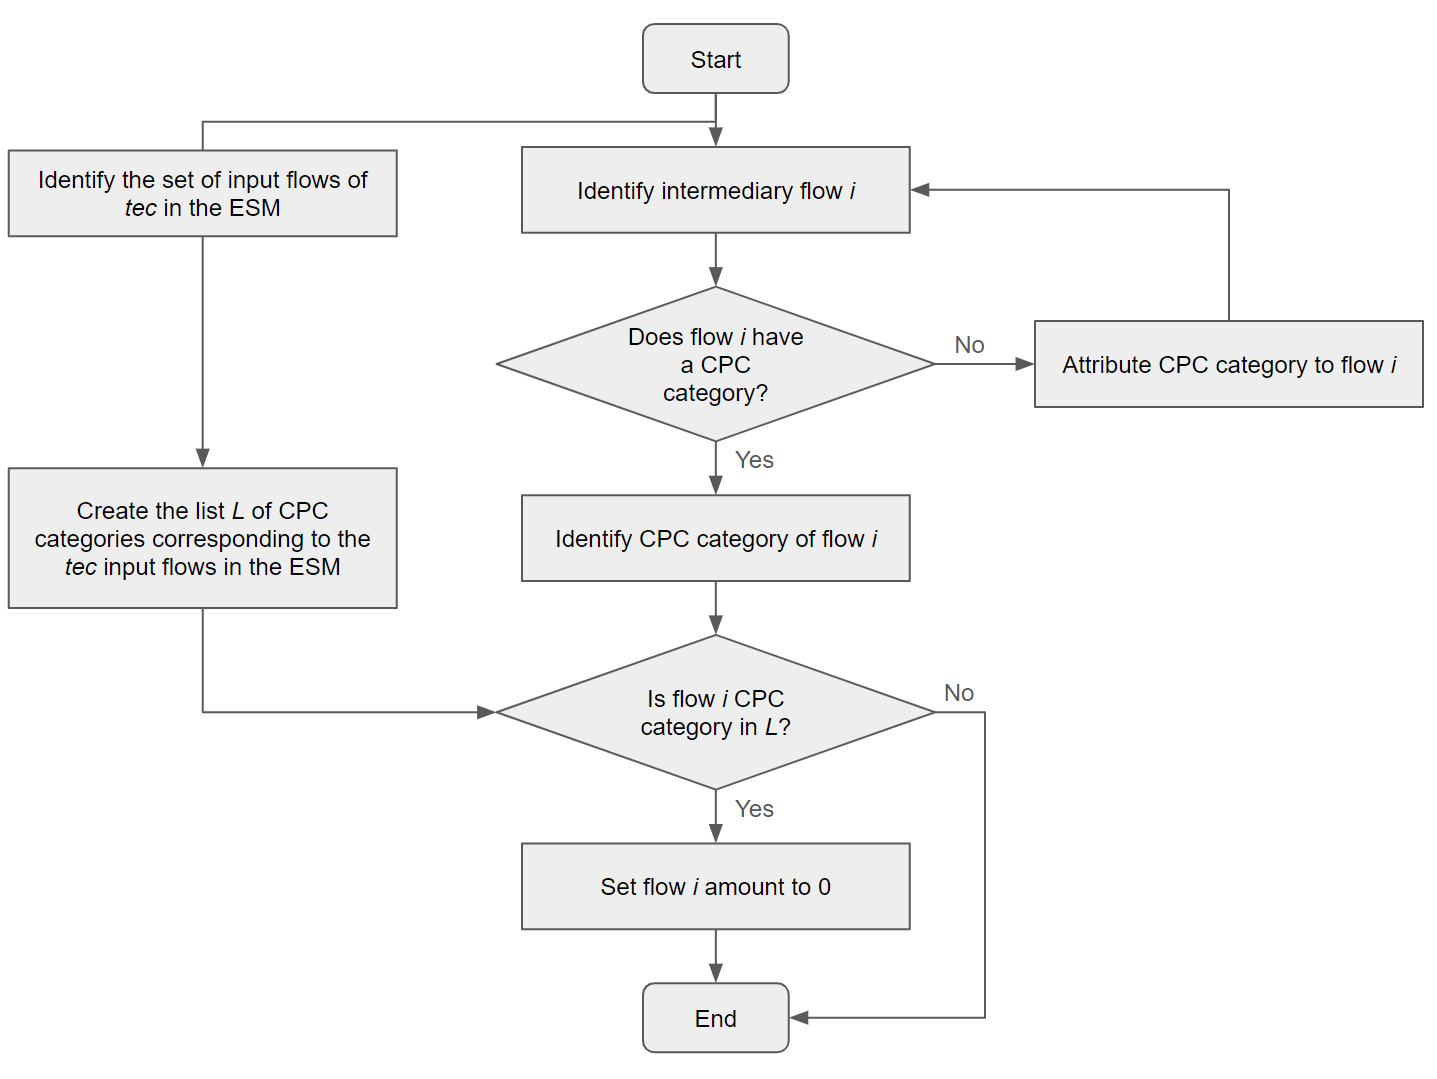
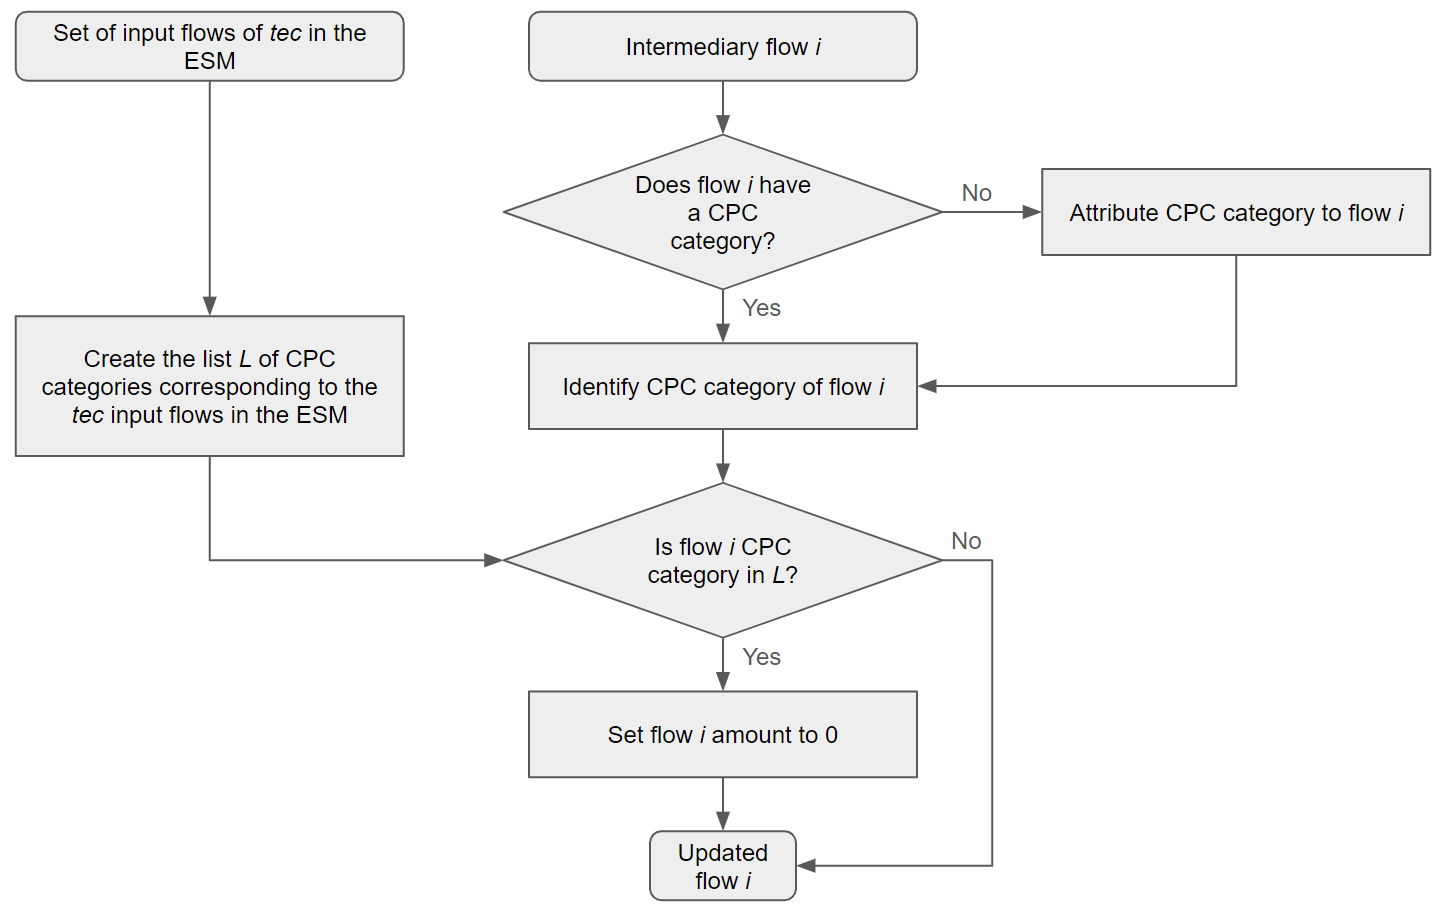
minor changes in figures and text

diff --git a/docs/content/methods.md b/docs/content/methods.md
@@ -6,19 +6,19 @@ Modellers should provide a mapping between the technologies and resources in the
 
 ![mapping between esm technologies and lci datasets](../pics/mapping.png "mapping")
 
-## Regionalization
+## Regionalization and spatialization
 
-LCI datasets can be regionalized to match the location of the ESM. For instance, if a LCI dataset does not exist for the region of interest, a new LCI dataset can be copied and adapted from an existing one (by changing the list of providers) as a proxy. If you are using a regionalized LCI database (i.e., with region-specific elementary flows), biosphere flows will be regionalized following the same procedure.
-
-## Harmonization
-
-Harmonization is the process of ensuring that the LCI datasets are consistent with the ESM. It mainly consists of unit conversion and assumptions alignement. For instance, lifetime and efficiency differences between the ESM and LCI databases can be automatically corrected. 
+LCI datasets can be regionalized to match the location of the ESM. For instance, if a LCI dataset does not exist for the region of interest, a new LCI dataset can be copied and adapted from an existing one (by changing the list of providers) as a proxy. If you are using a spatialized LCI database (i.e., with region-specific elementary flows), biosphere flows will be regionalized following the same procedure.
 
 ## Double-counting removal
 
 Double-counting occurs regarding the flows that are explicitly modelled in the ESM, e.g., energy flows (electricity, heat, fuels, etc.). Such flows should be set to zero in the LCI datasets in order to avoid an overestimation of the impacts. The double-counting removal algorithm is as follows:
 
 ![flowchart of the double-counting removal algorithm](../pics/double_counting_flowchart.png "double_counting_removal")
+
+## Harmonization
+
+Harmonization is the process of ensuring that the LCI datasets are consistent with the ESM. It mainly consists of unit conversion and assumptions alignement. For instance, lifetime and efficiency differences between the ESM and LCI databases can be automatically corrected. 
 
 ## Life-cycle impact assessment
 
